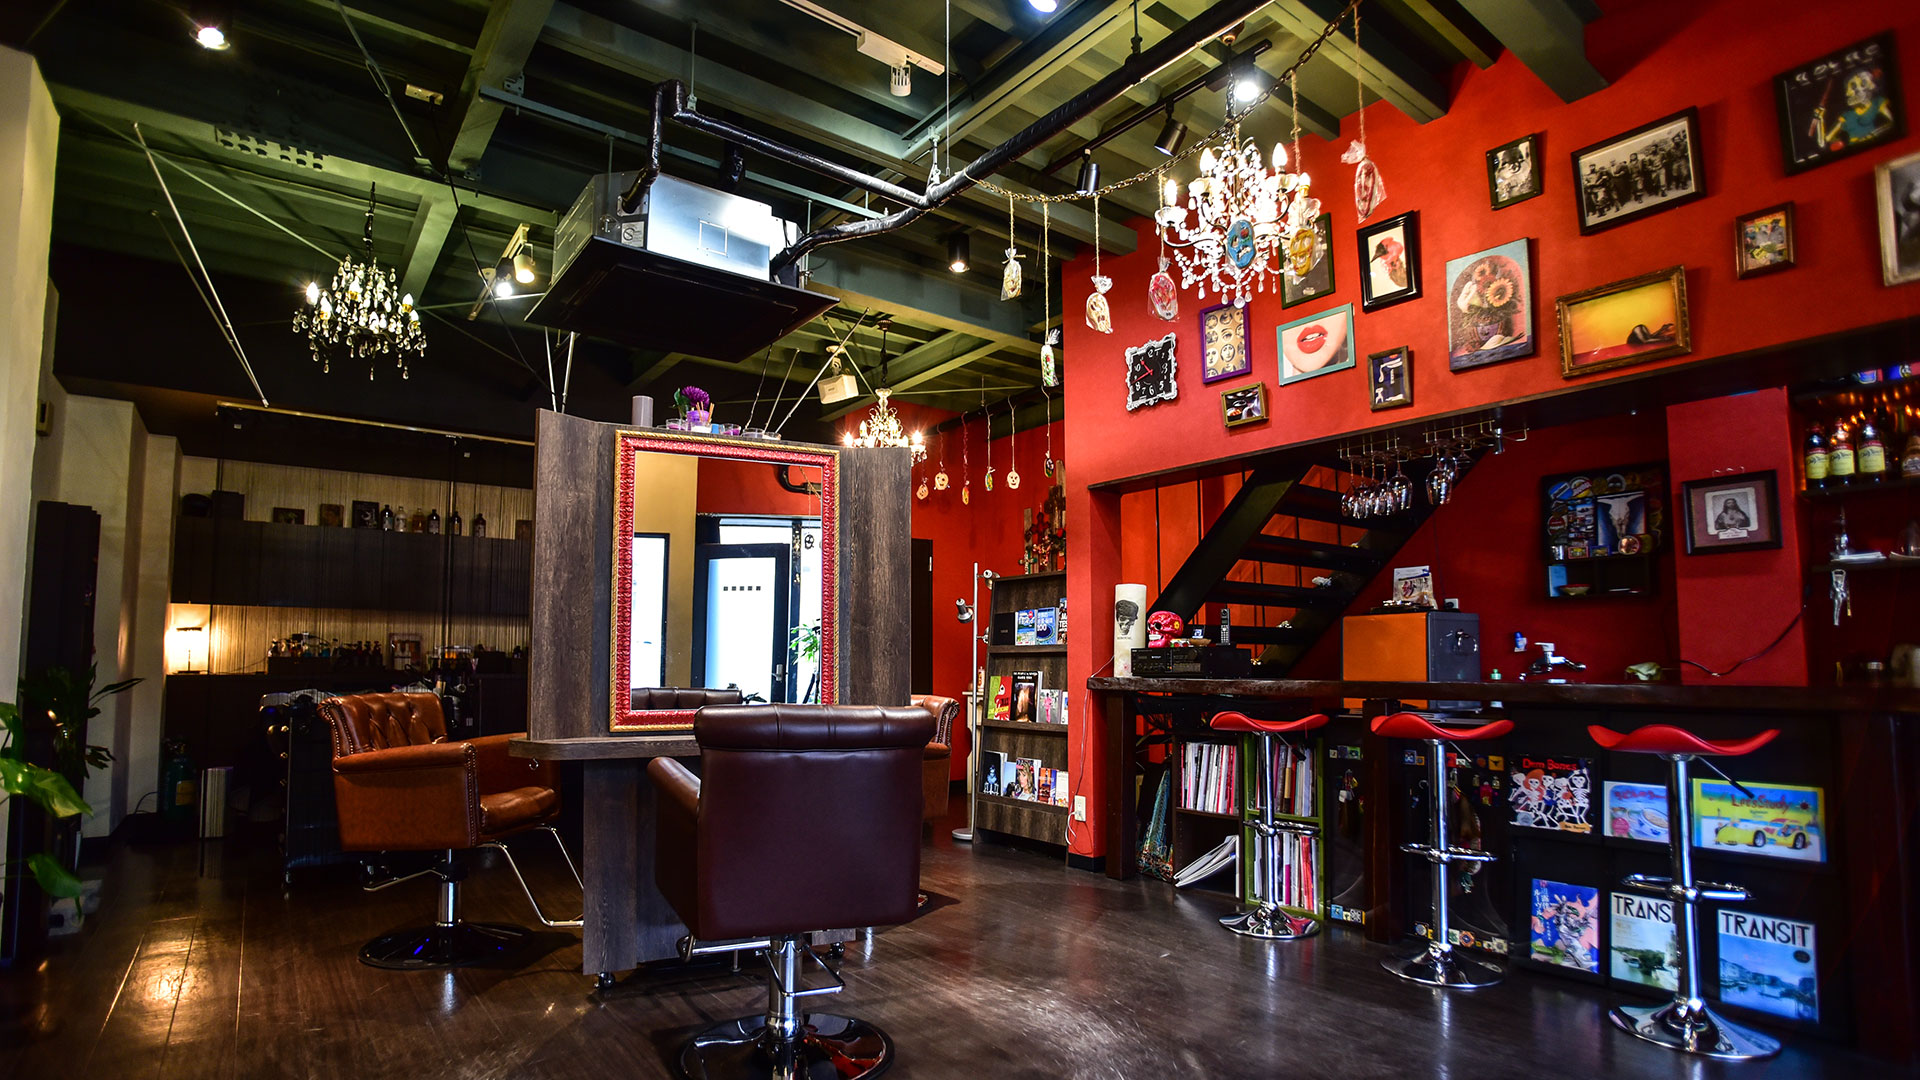
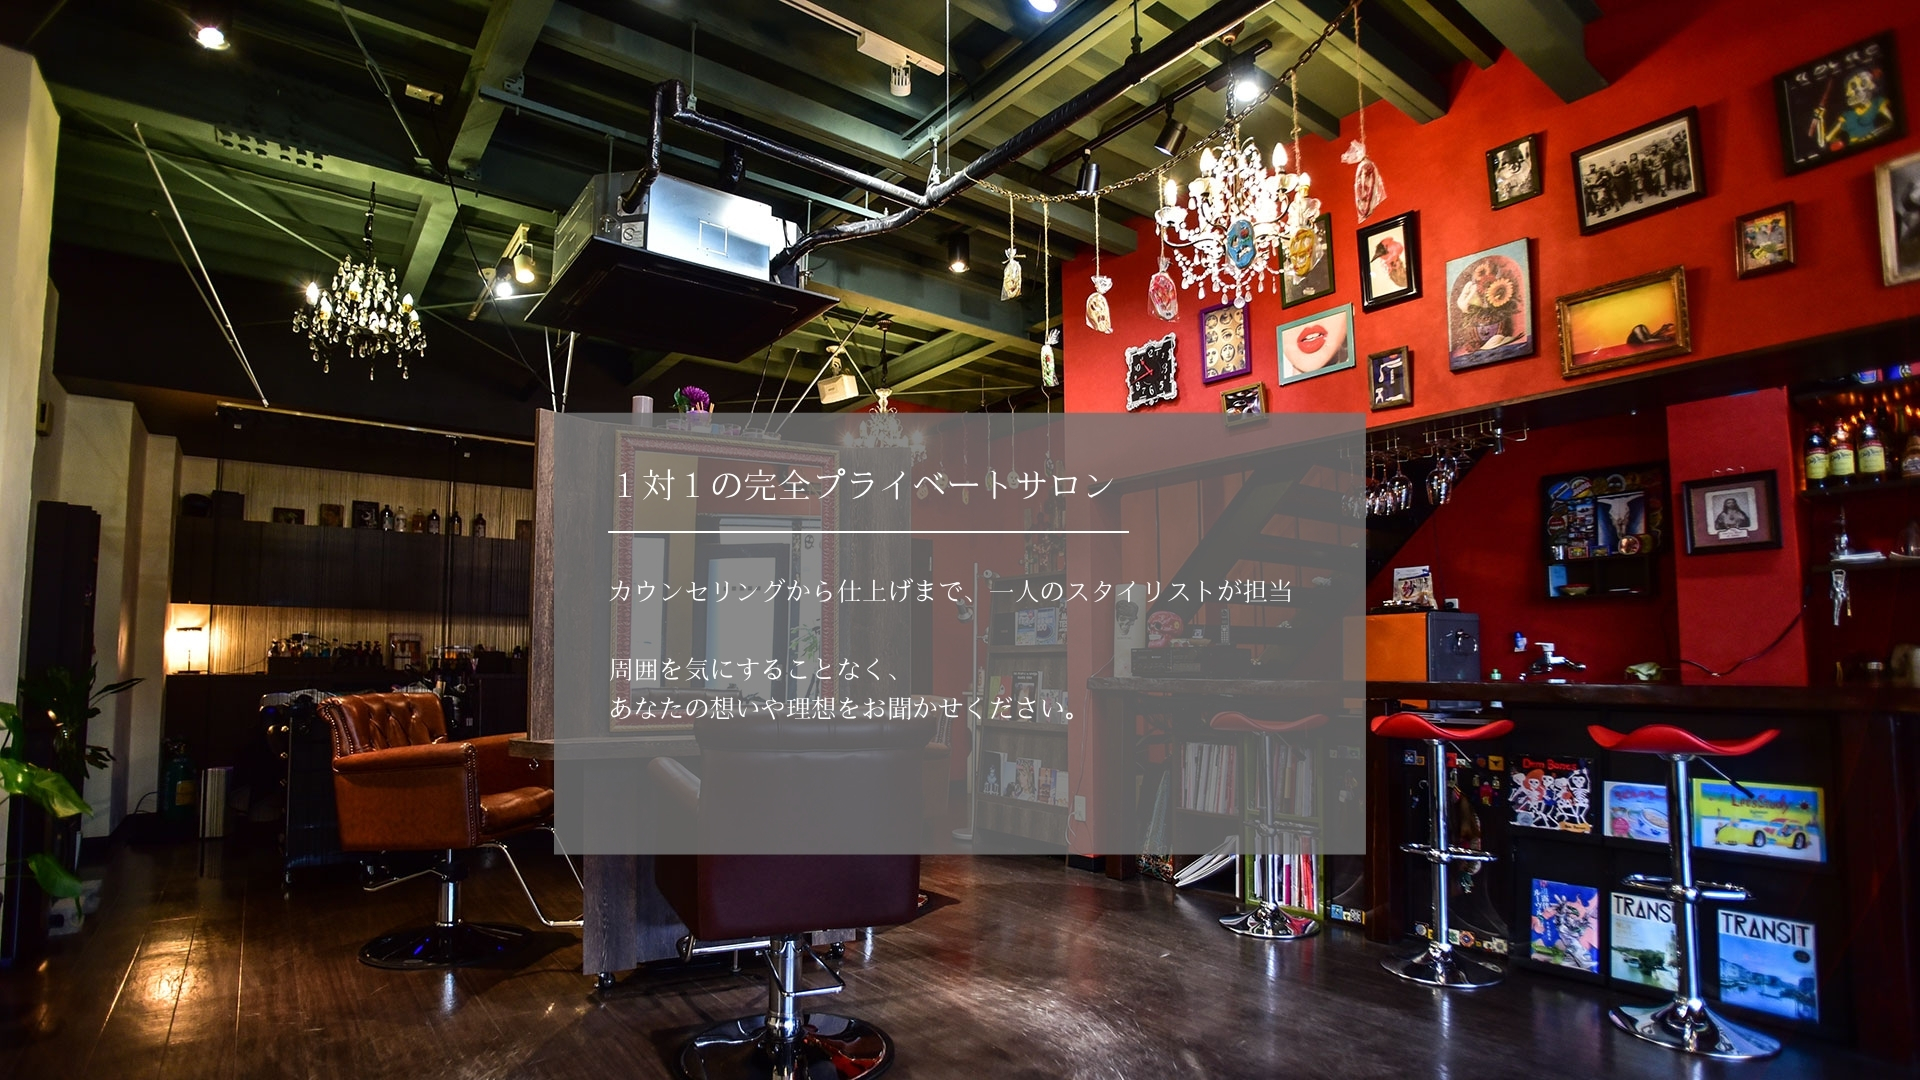
更新しました

Changed region(s): [[0.2812, 0.3667, 0.7188, 0.7944], [0.875, 0.825, 0.9062, 0.8556]]

diff --git a/script.js b/script.js
@@ -1,4 +1,5 @@
-//メイン4分割
+//メイン4分割・スマホスワイプ
+
 const visuals = document.querySelectorAll(
     ".main-1_image"
 );
@@ -7,9 +8,11 @@ const items = document.querySelectorAll(
     ".main-1_list li"
 );
 
+const main = document.querySelector(".main-1");
+
 const photos = [
     "sliderpict-A.jpg",
-    "sliderpict-B3.jpg",
+    "sliderpict-B.jpg",
     "sliderpict-C.jpg",
     "sliderpict-D.jpg"
 ];
@@ -17,32 +20,87 @@ const photos = [
 let active = visuals[0];
 let next = visuals[1];
 
+// 最初の写真を表示
 active.style.backgroundImage =
 `url("${photos[0]}")`;
 
 active.dataset.photo = "0";
 active.classList.add("is-active");
 
+// 【追加】共通の写真切り替え処理
+function showPhoto(index) {
+
+    if (active.dataset.photo === String(index)) {
+        return;
+    }
+
+    next.style.backgroundImage =
+    `url("${photos[index]}")`;
+
+    next.dataset.photo = String(index);
+
+    next.classList.add("is-active");
+    active.classList.remove("is-active");
+
+    [active, next] = [next, active];
+}
+
+// PC版：マウスオーバー
 items.forEach((item) => {
-    item.addEventListener("mouseenter",()=>{
+
+    item.addEventListener("mouseenter", () => {
+
         const index = Number(item.dataset.photo);
 
-        if(active.dataset.photo === String(index)){
-            return;
-        }
+        showPhoto(index);
 
-     next.style.backgroundImage =
-     `url("${photos[index]}")`;   
-     
-     next.dataset.photo = String(index);
+    });
 
-     next.classList.add("is-active");
-     active.classList.remove("is-active");
-
-     [active,next] = [next,active];
 });
-    
-});
+
+// 【追加】スマホ版：左右スワイプ
+let touchStartX = 0;
+let touchStartY = 0;
+
+main.addEventListener("touchstart", (event) => {
+
+    touchStartX = event.changedTouches[0].clientX;
+    touchStartY = event.changedTouches[0].clientY;
+
+}, { passive: true });
+
+main.addEventListener("touchend", (event) => {
+
+    const touchEndX = event.changedTouches[0].clientX;
+    const touchEndY = event.changedTouches[0].clientY;
+
+    const distanceX = touchEndX - touchStartX;
+    const distanceY = touchEndY - touchStartY;
+
+    // 【追加】横方向に50px以上動いた場合だけ反応
+    if (Math.abs(distanceX) < 50) return;
+
+    // 【追加】縦方向の動きが大きい場合は無視
+    if (Math.abs(distanceY) > Math.abs(distanceX)) return;
+
+    // 【追加】スマホ以外では動かさない
+    if (!window.matchMedia("(max-width: 670px)").matches) return;
+
+    const current = Number(active.dataset.photo);
+
+    if (distanceX < 0) {
+
+        // 左スワイプ：次の写真
+        showPhoto((current + 1) % photos.length);
+
+    } else {
+
+        // 右スワイプ：前の写真
+        showPhoto((current - 1 + photos.length) % photos.length);
+
+    }
+
+}, { passive: true });
 
 //ヘッダー
 const header = document.querySelector("#site-header");
@@ -70,6 +128,14 @@ document.addEventListener('DOMContentLoaded', function() {
 
     menuIcon.addEventListener('click', function() {
         headerRight.classList.toggle('active');
+    });
+
+    const menuLinks = document.querySelectorAll('.header-right a');
+
+    menuLinks.forEach((link) => {
+        link.addEventListener('click', function() {
+            headerRight.classList.remove('active');
+        });
     });
 
 });

diff --git a/stylesheet.css b/stylesheet.css
@@ -465,8 +465,8 @@ footer{
         position: absolute;
         top: 70px;
         right: 0;
-        width: 200px;
-        background: #343434;
+        width: 120px;
+        background: rgba(52,52,52,0.8);
         padding: 20px 0;
     }
 
@@ -477,6 +477,21 @@ footer{
 /*メイン*/       
     .main-1_list li{
         border-right: none;
+    }
+
+    .main-1{
+        touch-action: pan-y;
+    }
+
+    .main-1_list{
+        display: none;
+    }
+
+    .main-1_image{
+        background-size: auto 100%;
+        background-position: center;
+        background-repeat: no-repeat;
+        background-color: #343434;
     }
 
 /*コンセプト*/
@@ -566,7 +581,7 @@ footer{
     }
 
     .footer-logo{
-        width: 90px;
+        width: 150px;
     }
 
     .footer-right a{
